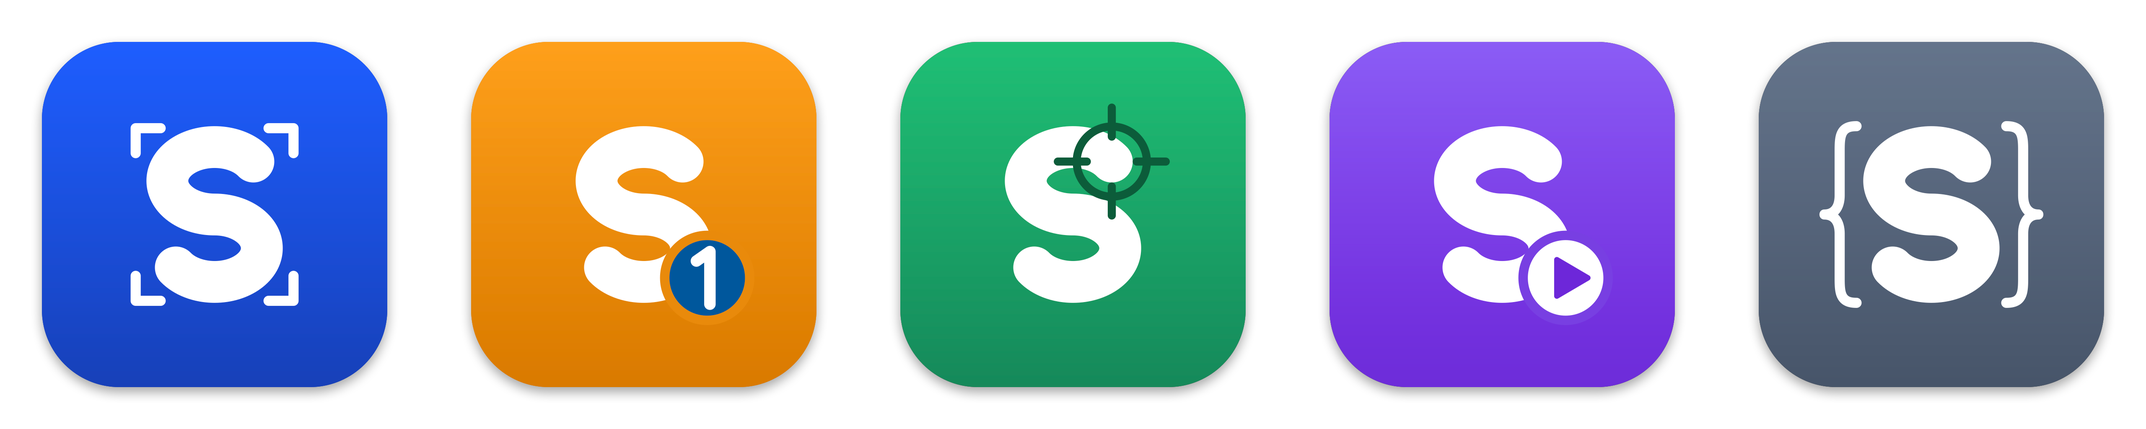
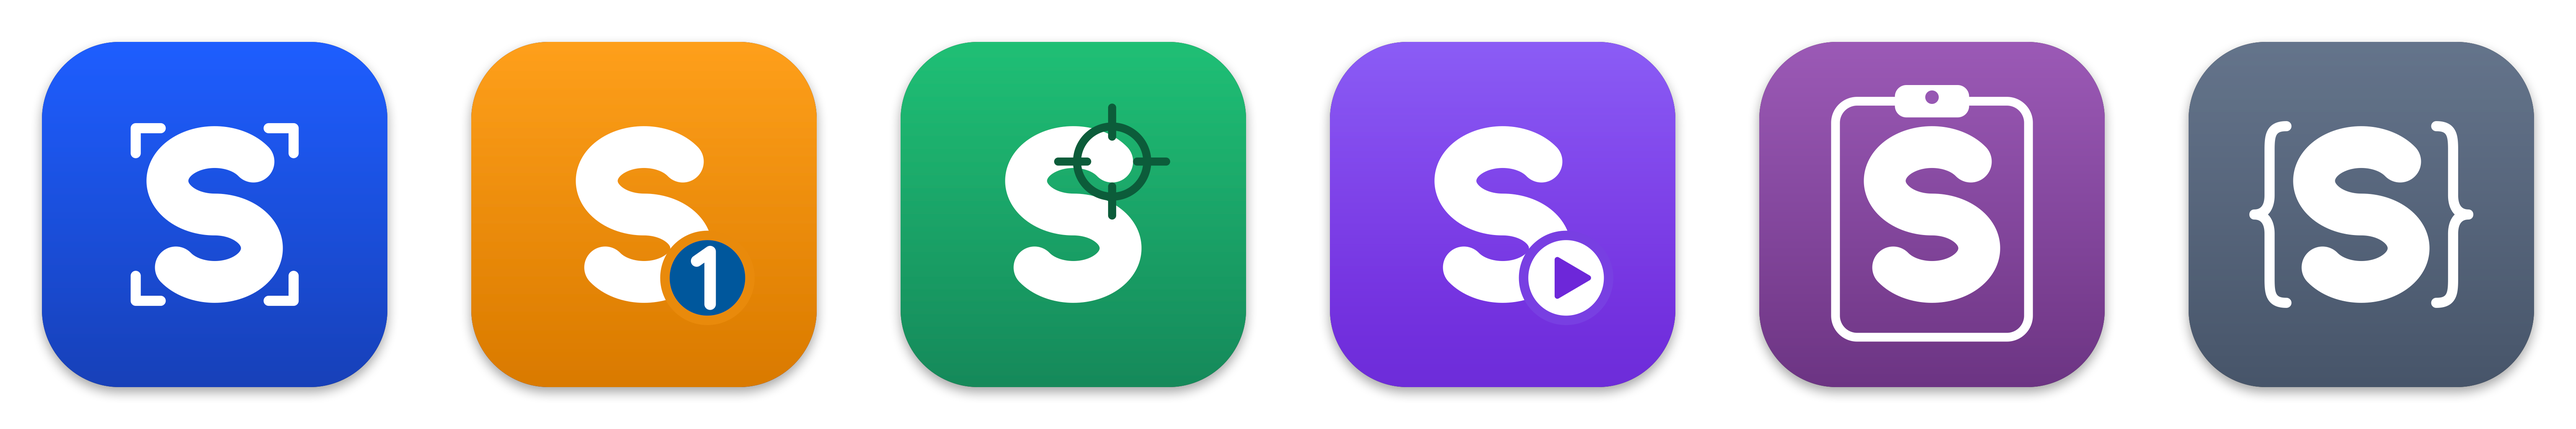
Add sPaste to the family brand: grape and a clipboard
sPaste joins as a uSuite utility with the shared s; its purple is grape so
it stays apart from sWalk's violet in the Dock and in the family row,
which now has six tiles.

diff --git a/brand/README.md b/brand/README.md
@@ -1,6 +1,6 @@
 # The s-family: naming and app icons
 
-Family-level note for sView, sNotate, sCapture, sWalk and scommon, and for the uSuite organization that publishes them. Proposed 2026-10-25 in the sview repository; moved here with the shared artwork on 2026-10-30.
+Family-level note for sView, sNotate, sCapture, sWalk, sPaste and scommon, and for the uSuite organization that publishes them. Proposed 2026-10-25 in the sview repository; moved here with the shared artwork on 2026-10-30.
 
 ## What the s means
 
@@ -18,10 +18,11 @@ One shared mark, and per member a colour and a small accent. The mark is a lower
 | sNotate | amber `#ff9f1a` to `#d97a00` | a filled dot with a white `1` at the s's lower terminal | the step counter, the one annotation that defines the app |
 | sCapture | green `#1fbf75` to `#15895a` | a reticle (thin circle with four ticks) in deep green `#0b5c3a`, centred on the s's upper terminal | aiming, the shutter |
 | sWalk | violet `#8b5cf6` to `#6d28d9` | a white dot with a violet play triangle, bottom right of the s, ringed in violet like sNotate's dot | playback of a walk |
+| sPaste | grape `#9b59b6` to `#6c3483` | a thin white clipboard frame around the s with its clip on top, the weight of sView's brackets | the clipboard; a calm purple kept apart from sWalk's violet |
 | scommon | slate `#64748b` to `#475569` | thin `{ }` either side of the s, the weight of sView's brackets | shared code, not an app |
 | uSuite (the organization) | graphite `#2b2f36` to `#1b1e23` | three dots in a row under the s, in sView blue, sNotate amber and sCapture green | the family; the Dots of the evidence chain |
 
-The three app hues sit roughly 120 degrees apart so the Dock icons are distinguishable at a glance; sWalk's violet sits between blue and amber on the far side, and scommon and uSuite are neutral because neither is an app in the Dock and the menu bar icon of sCapture reads as part of the set. A lower-saturation variant of each colour is the accent colour inside the app (selection, counters, toasts), so the icon and the UI agree.
+The three app hues sit roughly 120 degrees apart so the Dock icons are distinguishable at a glance; sWalk's violet sits between blue and amber on the far side, sPaste's grape is a muted red-violet a step further round so the two purples do not blur together, and scommon and uSuite are neutral because neither is an app in the Dock and the menu bar icon of sCapture reads as part of the set. A lower-saturation variant of each colour is the accent colour inside the app (selection, counters, toasts), so the icon and the UI agree.
 
 If the Dots idea should show, the accent is the place: each app's dot (viewfinder, counter, reticle) is one Dot, and the three together connect into the evidence chain. Nothing more literal than that.
 
@@ -42,7 +43,7 @@ Because the floor is macOS 26 there is no legacy `.icns` or multi-size PNG set t
 
 ## Files in this folder
 
-`s.svg` is the source of the glyph for every member; each app repository keeps a copy in its own `brand/`. The backgrounds and accents of sWalk, scommon and uSuite live here, sView's and sNotate's in their repositories, sCapture's in its repository. `render.swift <background.svg> <accent.svg> <out.png> [--full-bleed] [--size N]` draws one icon in the classic tile, or filling the square with `--full-bleed` for the organization avatar; the apps keep their own `make icon`. Rendered: `usuite-avatar-1024.png` (full bleed, the organization avatar), `scommon-1024.png`, `swalk-1024.png`, and `family-row.png` with the five tiles in the order sView, sNotate, sCapture, sWalk, scommon for the organization's profile page.
+`s.svg` is the source of the glyph for every member; each app repository keeps a copy in its own `brand/`. The backgrounds and accents of sWalk, scommon and uSuite live here, with a copy of sPaste's; sView's, sNotate's, sCapture's and sPaste's own are in their repositories. `render.swift <background.svg> <accent.svg> <out.png> [--full-bleed] [--size N]` draws one icon in the classic tile, or filling the square with `--full-bleed` for the organization avatar; the apps keep their own `make icon`. Rendered: `usuite-avatar-1024.png` (full bleed, the organization avatar), `scommon-1024.png`, `swalk-1024.png`, `spaste-1024.png`, and `family-row.png` with the six tiles in the order sView, sNotate, sCapture, sWalk, sPaste, scommon for the organization's profile page.
 
 ## Menu bar icon (sCapture only)
 
